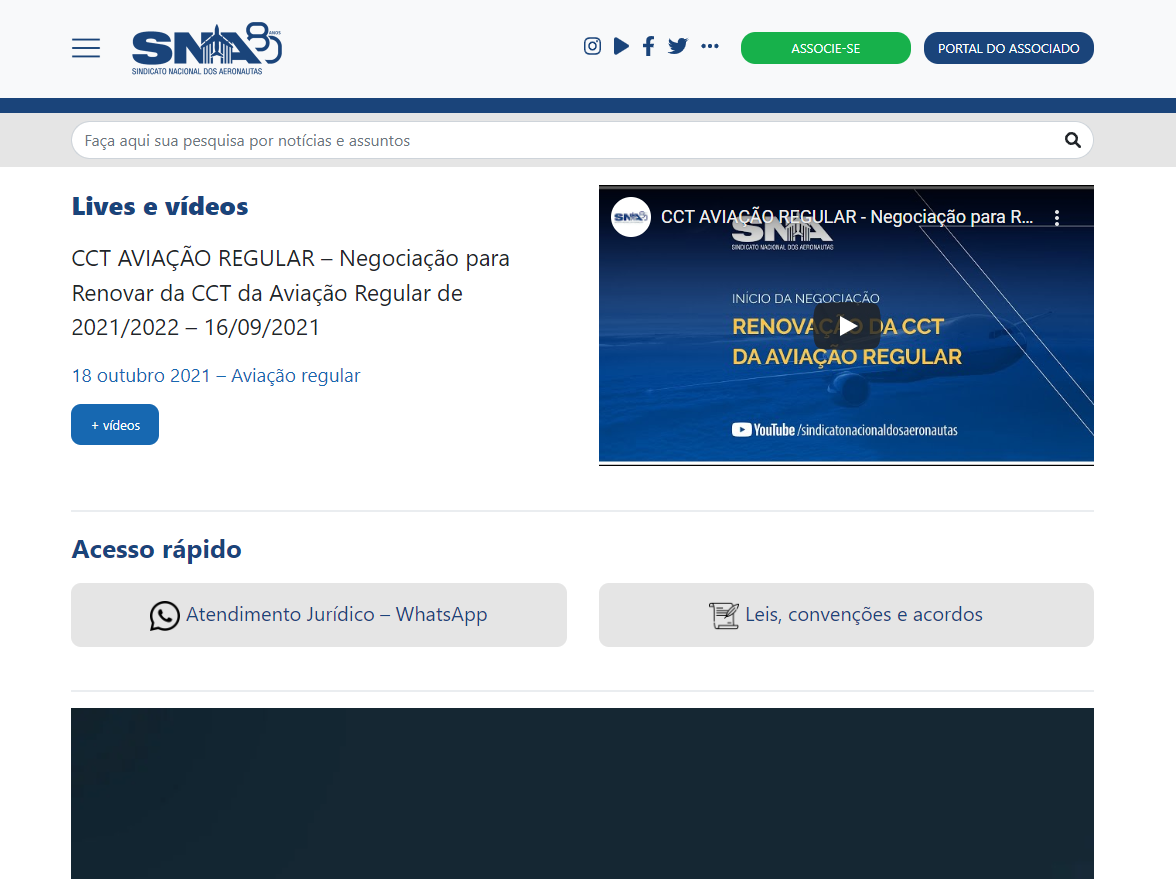
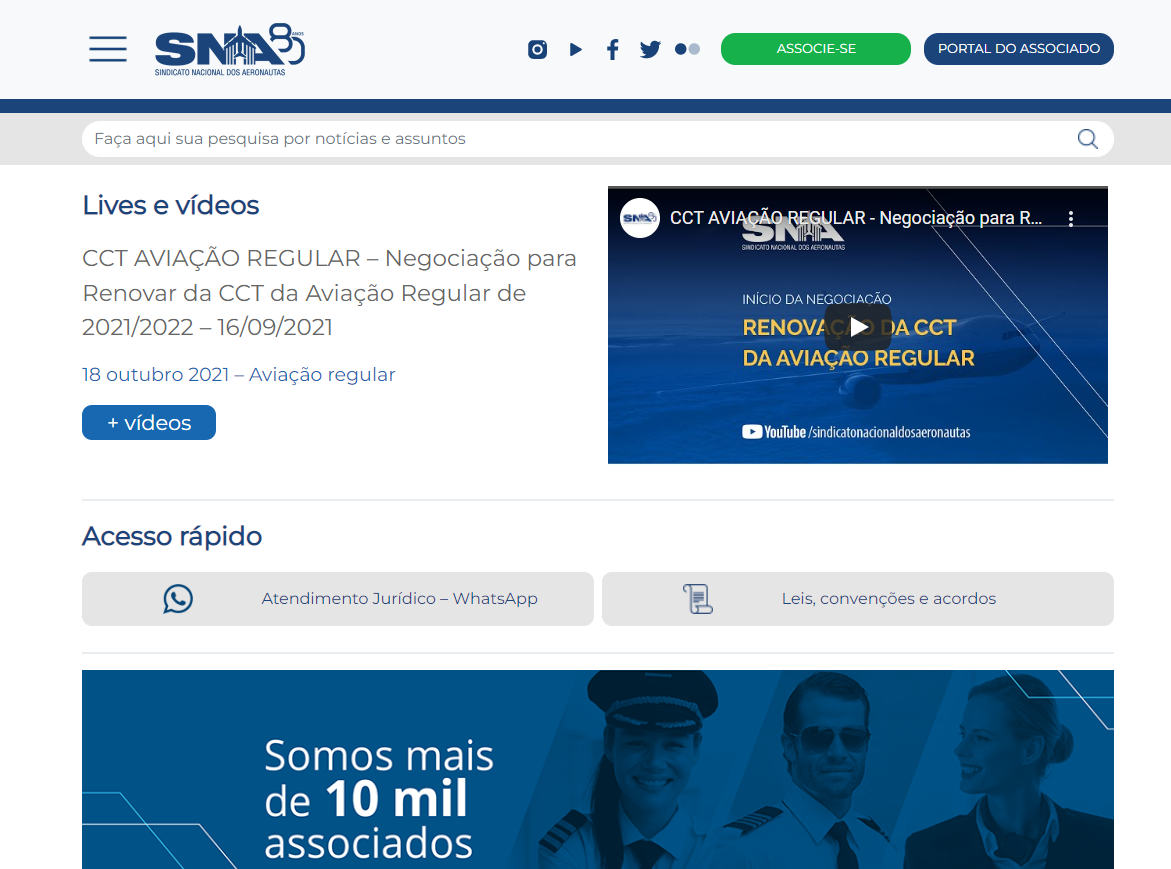
Fixed container margin-top

Changed region(s): [[0.0615, 0.5903, 0.953, 1.0], [0.0, 0.0, 1.0, 0.5593], [0.0615, 0.2175, 0.2152, 0.2486]]

diff --git a/style.css b/style.css
@@ -235,7 +235,7 @@ ul.dropdown-menu > li > a {
 }
 
 .container {
-    margin-top: 140px;
+    margin-top: 180px;
     margin-bottom: 55px;
 }
 
@@ -296,7 +296,7 @@ img.mobile {
     .container {
         padding-right: 20px !important;
         padding-left: 20px !important;
-        margin-top: 40px !important;
+        margin-top: 80px !important;
         margin-bottom: 40px !important;
 
     }
@@ -323,11 +323,11 @@ img.mobile {
 
 @media screen and (max-width: 1570px) {
     .container-fluid {
-        max-width: 90% !important;
+        max-width: 95% !important;
     }
 
     .container {
-        max-width: 90% !important;
+        max-width: 95% !important;
     }
 }
 
@@ -339,7 +339,7 @@ img.mobile {
     flex-wrap: wrap;
     justify-content: space-around;
     align-items: baseline;
-    margin-top: 40px;
+    margin-top: 80px;
 }
 .categoria {
     display: flex;
@@ -366,6 +366,18 @@ img.mobile {
 }
 .categoria.principal:last-child {
     margin-right: 0px;
+}
+.categoria.principal > div:first-child {
+  display: flex;
+  justify-content: center;
+  width: 30%;
+}
+.categoria.principal > div:last-child {
+  width: 70%;
+}
+.categoria > div > a {
+    text-decoration: none;
+    color: #1a447a;
 }
 .categoria > a {
     text-decoration: none;
@@ -394,6 +406,70 @@ img.mobile {
         flex: none;
         flex-grow: 1 !important;
         width: 100%;
+    }
+
+    .categoria {
+      flex: auto;
+    }
+
+}
+
+/* HOME PAGEEEEEEEEEEEEEEEEEEEEEEEEEEEEEEEEEEEEEEEEEEEEE */
+
+.botao-home > a {
+  padding: 2px 25px;
+  font-size: 1.3rem !important;
+}
+
+.botoes-acesso {
+    display: none !important;
+}
+
+.home-categoria {
+  display: flex;
+  border: 2px solid #e5e5e5;
+  border-radius: 10px;
+  align-items: center;
+  margin-bottom: 10px;
+}
+
+.home-categoria.rapido {
+  padding: 10px;
+}
+
+.home-categoria > p {
+  margin-left: 15px;
+  margin-bottom: 0 !important;
+  display: flex;
+  justify-content: center;
+  width: 30%;
+}
+
+.home-categoria.empresa > p {
+    width: 0%;
+}
+
+.home-categoria > p:last-child {
+  margin-left: 15px;
+  margin-bottom: 0 !important;
+  width: 70%;
+  display: initial
+}
+
+.home-categoria.empresa > p:last-child {
+  display: inherit;
+  margin-left: -15px;
+  width: 100%;
+  text-align: center;
+}
+
+@media screen and (max-width: 970px) {
+    .botoes-acesso {
+        display: block !important;
+    }
+
+    .home-categoria {
+      padding: 10px;
     }
 
 }

diff --git a/wordpress.css b/wordpress.css
@@ -1,6 +1,6 @@
-/* 
-Created meant to edit wordpress and bootstrap default styles, style.css is used just to header and footer, here I changed every element style of HTML 
-Keep in mind that plugins may broke this theme, Elementor and all its dependencies is known for doing so. 
+/*
+Created meant to edit wordpress and bootstrap default styles, style.css is used just to header and footer, here I changed every element style of HTML
+Keep in mind that plugins may broke this theme, Elementor and all its dependencies is known for doing so.
 */
 /* Wordpress */
 figure {
@@ -19,7 +19,7 @@ td.has-text-align-center {
     }
     table.has-fixed-layout > tbody > tr {
         display: flex;
-        flex-flow: wrap;      
+        flex-flow: wrap;
         flex-flow: column wrap;
     }
 }
@@ -41,4 +41,14 @@ input, select {
     color: #666 !important;
 }
 
+/* Home PAGEEEEEEEEEEEEEEEEEEEEEEEEEEEEEEEEEEEEEEEEEEEEE */
 
+@media (min-width: 782px) {
+  .wp-block-columns:not(.is-not-stacked-on-mobile)>.wp-block-column:not(:first-child) {
+      margin-left: var(--wp--style--block-gap,.5em) !important;
+  }
+}
+
+.wp-block-columns {
+    margin-bottom: 0.75em !important;
+}

diff --git a/header.php b/header.php
@@ -36,19 +36,19 @@
 						<img class="menu" src="<?php echo get_stylesheet_directory_uri() . '/assets/imgs/menu-fechado.png'; ?>" style="display: none;"/>
 					</button>
 					<?php
-						wp_nav_menu(array( 
+						wp_nav_menu(array(
 							'container' => 'ul',
 							'menu_class' => 'dropdown-menu dropdown-menu',
-						)); 
+						));
 					?>
 				</div> &nbsp &nbsp &nbsp
 				<!-- Desktop navbar -->
-				<a class="desktop navbar-brand" href="#">
+				<a class="desktop navbar-brand" href="<?php echo home_url() ?>">
 					<img src="<?php echo get_stylesheet_directory_uri() . '/assets/imgs/logo.png'; ?>">
 				</a>
 			</div>
 			<!-- Mobile navbar -->
-			<a class="mobile navbar-brand" href="#">
+			<a class="mobile navbar-brand" href="<?php echo home_url() ?>">
 				<img src="<?php echo get_stylesheet_directory_uri() . '/assets/imgs/logo.png'; ?>">
 			</a>
 			<img class="mobile" onclick="pesquisa_visibilidade()" src="<?php echo get_stylesheet_directory_uri() . '/assets/imgs/lupa.png'; ?>"></img>

diff --git a/footer.php b/footer.php
@@ -1,7 +1,7 @@
 <!-- Close container opened in header -->
 </div>
 <!-- Whatsapp floating icon -->
-<a href="http://3.87.236.147/" class="whatsapp">
+<a href="" class="whatsapp">
     <img src="<?php echo get_stylesheet_directory_uri() . '/assets/imgs/whatsapp.png'; ?>"></img>
 </a>
 <!-- Footer -->

diff --git a/category.php b/category.php
@@ -1,6 +1,7 @@
 <?php get_header(); ?>
 
 <?php
+
 echo '<h2 class="categorias-header titulo">Parcerias e convênios</h2>';
 echo '<h4 class="categorias-header">Selecione uma categoria para quais empresas ofereçam descontos aos associados</h4>';
 if ( have_posts() ) {
